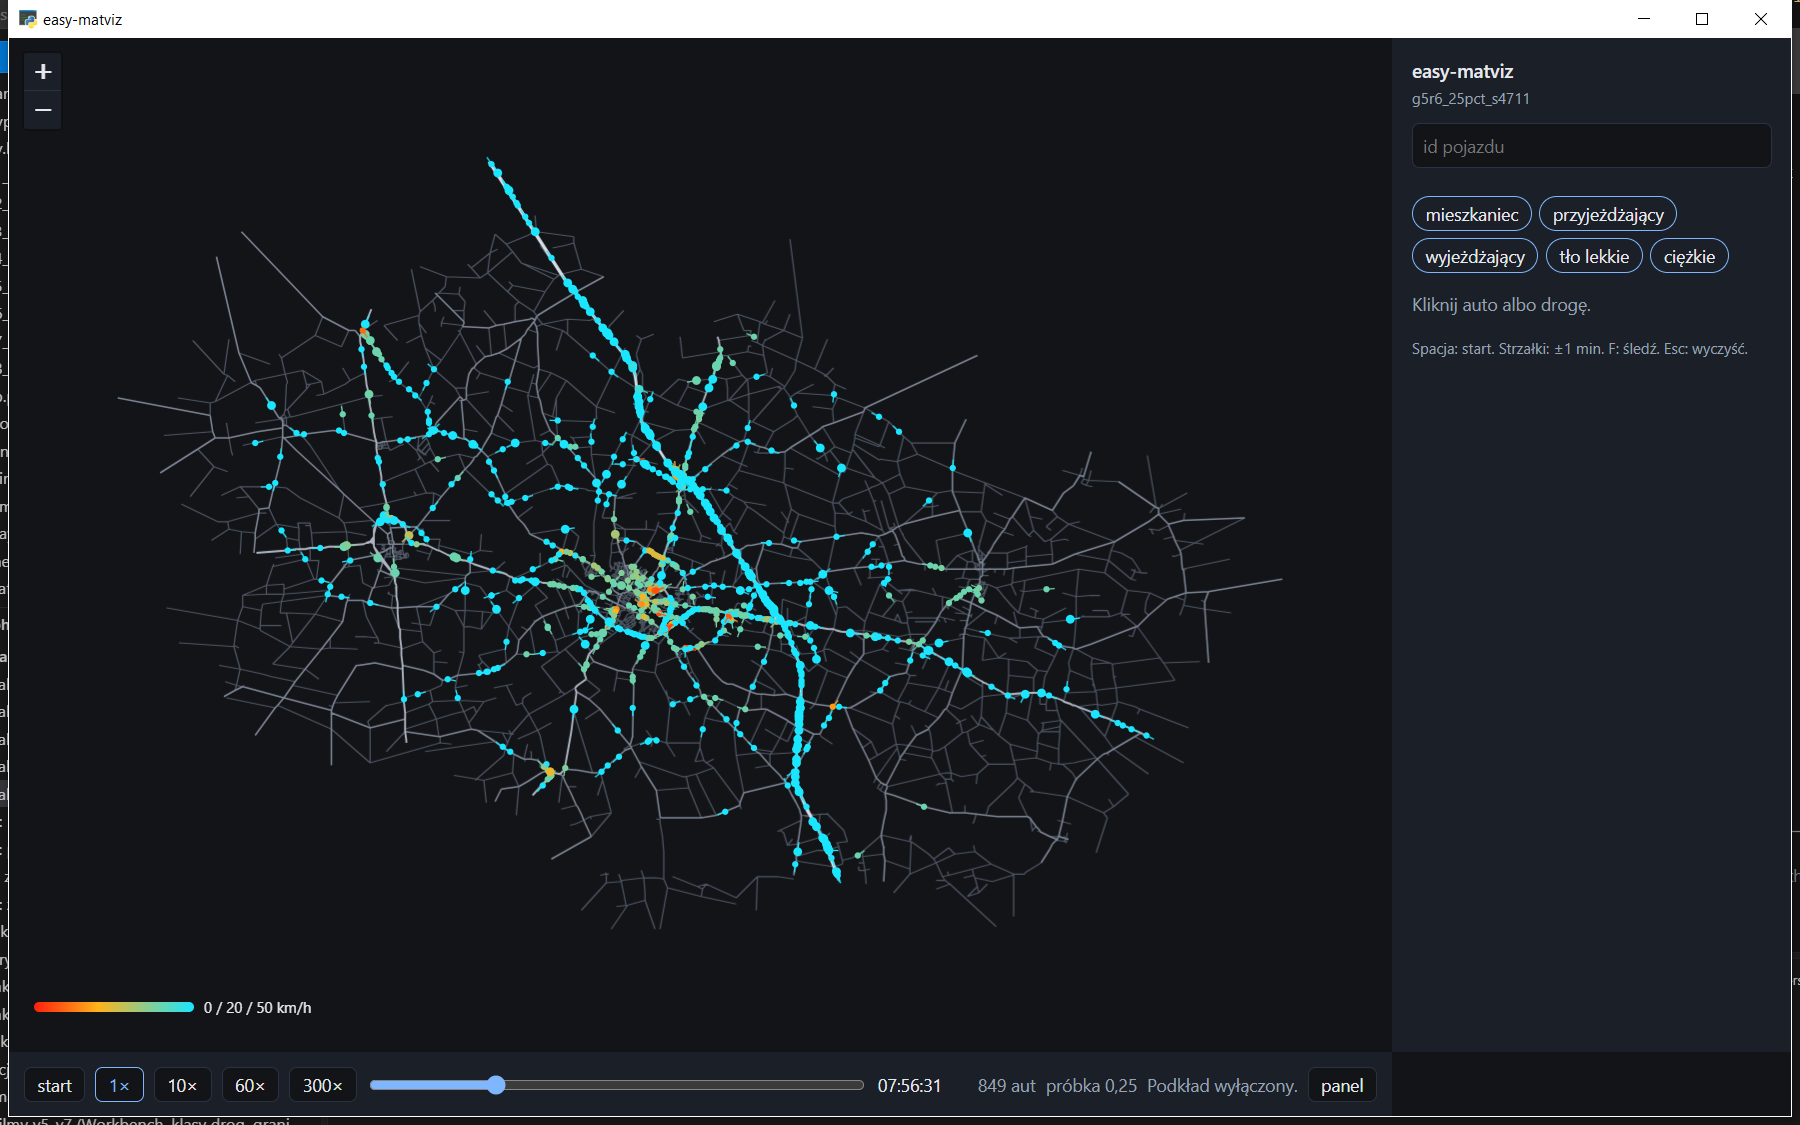
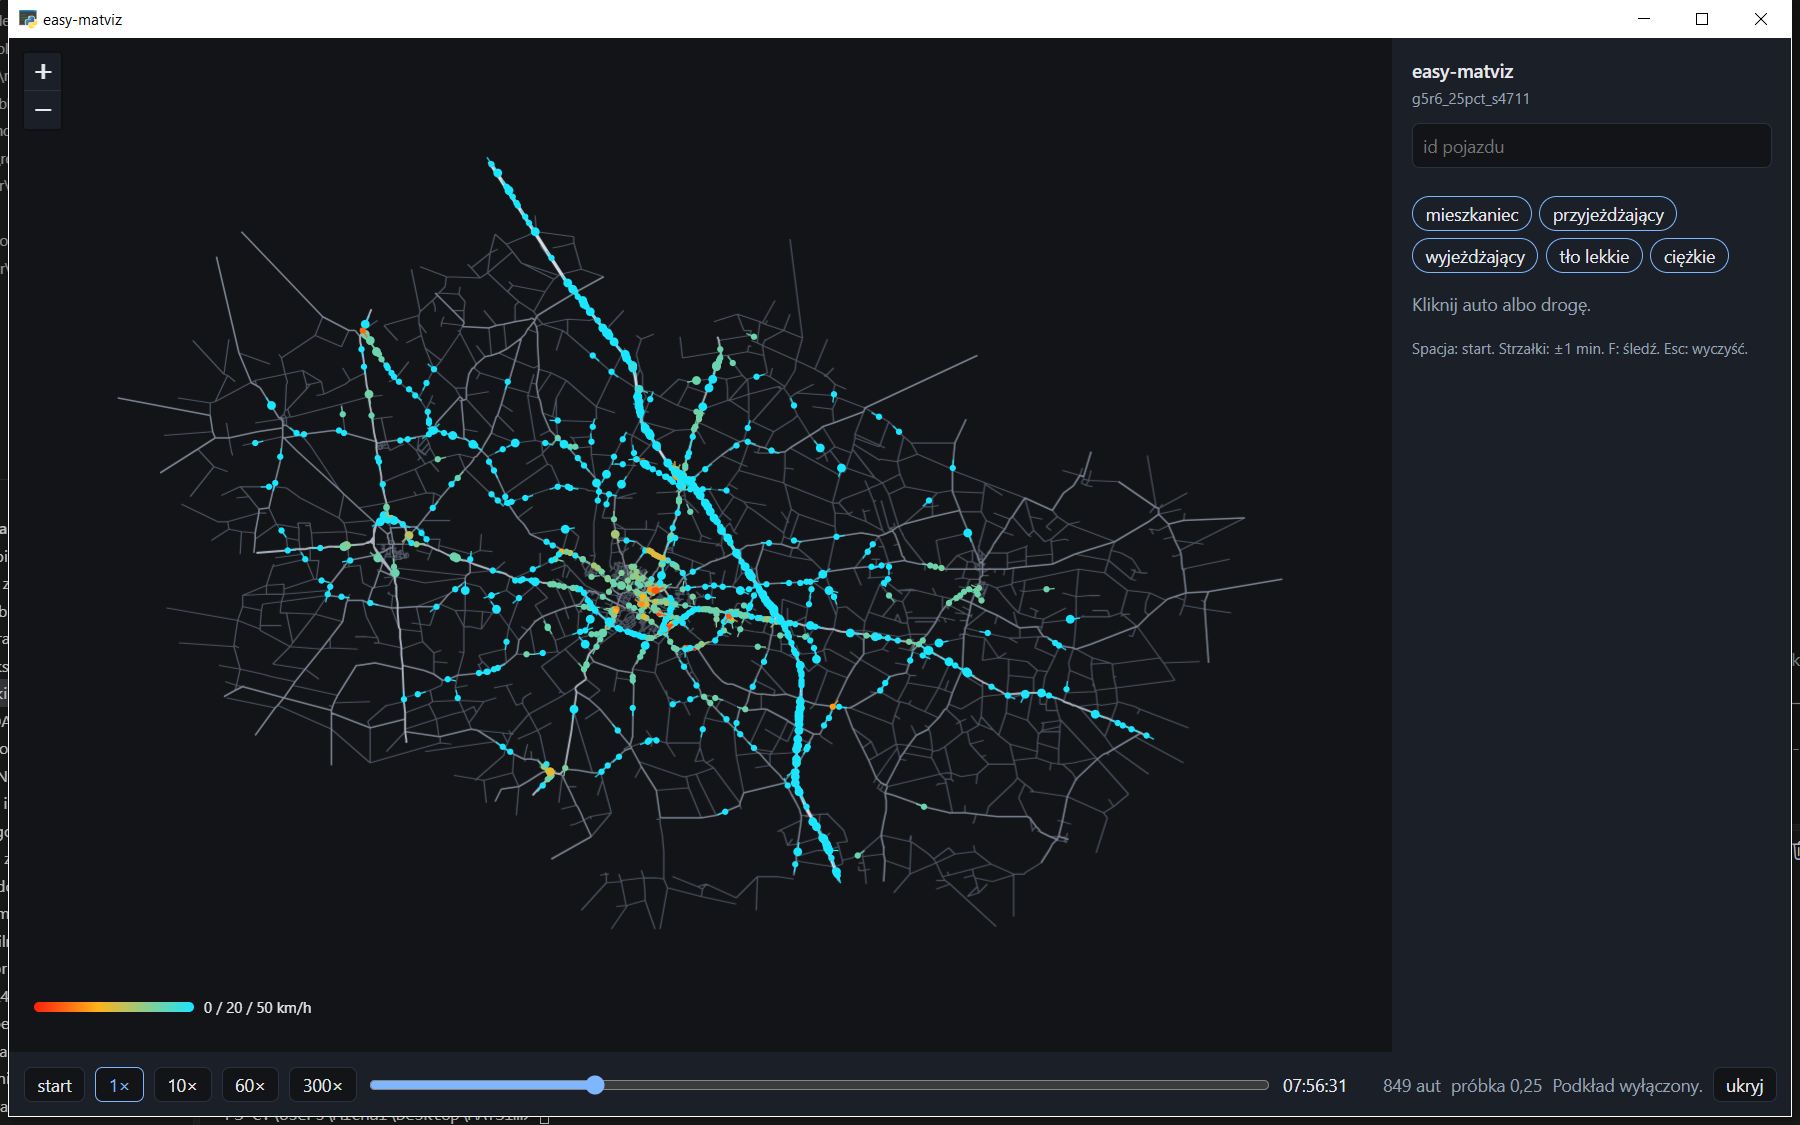
wizualizer: panel wraca, a okno po krzyżyku rysuje klatkę
Ukrycie panelu zrzucało pasek do kolumny o szerokości zero. Pasek jest przypięty do obu kolumn. Drugie uruchomienie wołało api.frame, zanim mostek miał tę funkcję, i zostawiało busy. Smoke czeka na zegar 06:00:00 i sprawdza prostokąt przycisku.

diff --git a/viz_player/shell.html b/viz_player/shell.html
@@ -8,7 +8,7 @@
 html, body { margin: 0; height: 100%; background: #121418; color: #e7e9ee;
   font-family: "Segoe UI", sans-serif; font-size: 14px; }
 body { display: grid; grid-template-columns: 1fr 320px; grid-template-rows: 1fr 52px; overflow: hidden; }
-#stage { position: relative; min-width: 0; min-height: 0; }
+#stage { position: relative; min-width: 0; min-height: 0; grid-column: 1; grid-row: 1; }
 #map { position: absolute; inset: 0; background: #121418; }
 #draw { position: absolute; inset: 0; z-index: 450; pointer-events: none; }
 #legend { position: absolute; z-index: 500; left: 12px; bottom: 22px; display: flex; gap: 8px;
@@ -16,7 +16,8 @@ body { display: grid; grid-template-columns: 1fr 320px; grid-template-rows: 1fr 
   color: #e7e9ee; font-size: 12px; }
 #legend .bar { width: 128px; height: 8px; border-radius: 4px;
   background: linear-gradient(90deg, rgb(255, 31, 13) 0%, rgb(255, 179, 26) 40%, rgb(26, 230, 255) 100%); }
-#panel { background: #1b1f27; overflow: auto; padding: 16px 16px 12px; min-height: 0; }
+#panel { background: #1b1f27; overflow: auto; padding: 16px 16px 12px; min-height: 0;
+  grid-column: 2; grid-row: 1; }
 #panel h1 { margin: 0 0 4px; font-size: 15px; font-weight: 600; }
 #panel .run { margin: 0 0 12px; color: #9aa3b2; font-size: 12px; word-break: break-all; }
 #find input { width: 100%; box-sizing: border-box; background: #121418; color: #e7e9ee;
@@ -34,7 +35,8 @@ body { display: grid; grid-template-columns: 1fr 320px; grid-template-rows: 1fr 
 #acts .on { color: #7eb6ff; }
 .muted { color: #9aa3b2; }
 #hint { margin-top: 18px; color: #9aa3b2; font-size: 12px; line-height: 1.4; }
-#bar { display: flex; align-items: center; gap: 8px; padding: 0 12px; background: #1b1f27; min-width: 0; }
+#bar { display: flex; align-items: center; gap: 8px; padding: 0 12px; background: #1b1f27; min-width: 0;
+  grid-column: 1 / -1; grid-row: 2; }
 #bar button { background: #121418; color: #e7e9ee; border: 1px solid #2a3140; border-radius: 6px; padding: 4px 10px; }
 #bar button.on, #play.on { border-color: #7eb6ff; color: #7eb6ff; }
 #slider { flex: 1; min-width: 80px; accent-color: #7eb6ff; }
@@ -77,7 +79,7 @@ body.panel-off #panel { display: none; }
   <span id="count">0 aut</span>
   <span id="sample"></span>
   <span id="base">Podkład wyłączony.</span>
-  <button id="hide" type="button">panel</button>
+  <button id="hide" type="button">ukryj</button>
 </div>
 <script id="boot" type="application/json">__BOOT__</script>
 <script>/*__LEAFLET_JS__*/</script>
@@ -325,10 +327,19 @@ function py() {
   });
 }
 function pull() {
-  if (window.hold || busy || !window.pywebview) return;
+  const api = window.pywebview && window.pywebview.api;
+  if (window.hold || busy || !api || !api.frame) return;
   busy = true;
   const sent = t;
-  window.pywebview.api.frame(sent).then((payload) => {
+  let pending;
+  try {
+    pending = api.frame(sent);
+  } catch (err) {
+    busy = false;
+    window.drawError = String(err);
+    return;
+  }
+  pending.then((payload) => {
     busy = false;
     if (window.hold) return;
     if (!playing && Math.abs(sent - t) > 1e-3) {
@@ -377,7 +388,10 @@ slider.addEventListener("input", () => {
   dirty = true;
 });
 document.getElementById("hide").addEventListener("click", () => {
-  document.body.classList.toggle("panel-off");
+  const off = document.body.classList.toggle("panel-off");
+  const b = document.getElementById("hide");
+  b.textContent = off ? "panel" : "ukryj";
+  b.classList.toggle("on", off);
   if (map) setTimeout(() => { map.invalidateSize(); linkKey = ""; if (lastPayload) draw(lastPayload); }, 0);
 });
 document.getElementById("find").addEventListener("submit", (ev) => {

diff --git a/viz_player/player.py b/viz_player/player.py
@@ -541,7 +541,7 @@ def self_test():
     if ramp_rgb(0) != (255, 31, 13) or ramp_rgb(VMAX) != (26, 230, 255):
         raise SystemExit(f"self-test: rampa {ramp_rgb(0)} {ramp_rgb(VMAX)}")
     shell = (HERE / "shell.html").read_text(encoding="utf-8")
-    for token in ("255, 31, 13", "255, 179, 26", "26, 230, 255", "const VMAX = 14"):
+    for token in ("255, 31, 13", "255, 179, 26", "26, 230, 255", "const VMAX = 14", "grid-column: 1 / -1"):
         if token not in shell:
             raise SystemExit(f"self-test: shell bez {token}")
     home = {"t": 100.0, "kind": "actend", "type": "home"}
@@ -830,6 +830,10 @@ def smoke(run):
             if not ready:
                 result["error"] = "mapa nie wstała"
                 return
+            opened = _wait_js(window, "document.getElementById('clock').textContent === '06:00:00'")
+            if not opened:
+                result["error"] = "brak klatki " + str(window.evaluate_js("window.drawError"))
+                return
             window.evaluate_js("window.hold = true")
             time.sleep(0.4)
             meta = player.index.meta
@@ -857,6 +861,16 @@ def smoke(run):
                 return
             if player.basemap is None and str(base) != "Podkład wyłączony.":
                 result["error"] = f"podkład {base}"
+                return
+            window.evaluate_js("document.getElementById('hide').click()")
+            time.sleep(0.3)
+            back = window.evaluate_js(
+                "(function(){var b=document.getElementById('hide');var r=b.getBoundingClientRect();"
+                "return r.width>20 && r.left>=0 && r.right<=window.innerWidth+1 && b.textContent==='panel';})()"
+            )
+            window.evaluate_js("document.getElementById('hide').click()")
+            if back is not True:
+                result["error"] = "przycisk panelu " + str(back)
                 return
             window.evaluate_js("document.querySelector('.chip[data-letter=\"t\"]').click()")
             time.sleep(0.8)

diff --git a/docs/projekt/ERRORS.md b/docs/projekt/ERRORS.md
@@ -48,3 +48,6 @@ Każdy wpis: co się stało → koszt → reguła na przyszłość. Najważniejs
 25. **`np.load` na Windows trzyma plik.** Po zielonym teście kasowanie `index.npz` i sprzątanie `TemporaryDirectory` rzuciły `PermissionError` (WinError 32). → Zamykać `NpzFile` w `finally`, zanim cokolwiek usuwa plik.
 26. **Węzły dopisywane w kolejności pliku nie tworzą ciągłego bloku jednego przejazdu.** Eventy pojazdów się przeplatają, a indeks chce jeden wycinek CSR na przejazd. → Bufor otwartego przejazdu i zrzut przy `vehicle leaves traffic`, nowym wjeździe tego samego pojazdu albo końcu pliku. Wyłapane przed runem R6. Self-test sortuje eventy po czasie, żeby przeplot był w teście.
 27. **Brak `x`/`y` przy czynności stawiał ją na węźle from linku.** Gałąź nie odpaliła się na R6 (każda czynność ma współrzędne), więc indeks był dobry, a błąd cichy. → Budowa przerywa się (`czynność bez x/y`). Nie wymyślać punktu.
+
+## 2026-10-20 (okno D24, krok 3)
+28. **Po krzyżyku kolejne okno było puste, a ukryty panel nie miał powrotu.** Dwie osobne przyczyny. Panel: `display:none` wyjmował go z siatki, a pasek (z przyciskiem) wpadał w kolumnę o szerokości 0. Pusta mapa: pywebview wstrzykuje mostek w dwóch skryptach. Między nimi `window.pywebview.api` już jest, ale bez `frame`. `pull` ustawiał `busy` i wywoływał `api.frame`, które jeszcze nie istniało. Wyjątek zostawiał `busy` na zawsze, więc auta i linki nie przychodziły. Pierwsze otwarcie czasem wygrywało ten wyścig, kolejne nie. → Pasek ma stałe miejsce w siatce (`grid-column: 1 / -1`, `grid-row: 2`). `pull` woła `frame` dopiero, gdy funkcja jest, a wyjątek zdejmuje `busy`. Smoke czeka na zegar `06:00:00` z samego odtwarzania i sprawdza, że przycisk panelu zostaje na ekranie.

diff --git a/docs/projekt/PROGRESS.md b/docs/projekt/PROGRESS.md
@@ -313,4 +313,5 @@
 - Akceptacja automatyczna. Self-testy indeksu i silnika nadal przechodzą. `uv run python -m viz_player --self-test` → `self-test OK` (zegar 06:00:00 i 30:12:00, próbka `0,25`, rampa G6, czynność zamiast ducha, klik auta i linku, prefiks id).
 - R6, bez rysowania: `uv run python -m viz_player --check output/g5r6_25pct_s4711`. Log: `output/g5r6_25pct_s4711/viz/player.log`. Start 06:00:00, próbka `0,25`, podkład wyłączony, 10 383 linki, osie 52,2307° N 19,3633° E. Klatka 07:56:31 (28 591 s): 849 aut, bez `t` 447. Szczyt 58 170 s: 961. Lookup `r6510903_5` trafia. Indeks z dysku (`reuse`, bez skanu XML).
 - Smoke okna na tym samym runie: mapa 1106×811, narysowane 849 i po wyłączeniu chipa `t` 447, podpis próbki `0,25`, zdanie „Podkład wyłączony.”, panel pokazuje `r6510903_5`, Escape czyści wybór. Zrzut (pauza 07:56, nie stan otwarcia): `docs/research/wizualizer_okno.png`.
-- Akceptacji ludzkiej nie zaliczam. Zostaje obejrzenie: pauza 07:56, play, suwak 06:30 i z powrotem, szukanie, śledzenie, Escape, klik linku, czytelność panelu. Klucza CARTO nadal nie ma. `ERRORS.md` bez nowej lekcji. MVP i D23 bez zmian. Krok 4 nie ruszany.
+- Akceptacji ludzkiej nie zaliczam. Zostaje obejrzenie: pauza 07:56, play, suwak 06:30 i z powrotem, szukanie, śledzenie, Escape, klik linku, czytelność panelu. Klucza CARTO nadal nie ma. MVP i D23 bez zmian. Krok 4 nie ruszany.
+- Po obejrzeniu, tego samego dnia: ukrycie panelu zabierało pasek razem z przyciskiem (siatka), a kolejne okno po krzyżyku wstawało bez aut i linków (`pull` łapał `busy`, zanim mostek dostał `frame`). Lekcja 28 w `ERRORS.md`. Przycisk zostaje na pasku i nazywa się „panel”, gdy panel jest schowany. Smoke czeka na zegar 06:00:00 z odtwarzania i sprawdza prostokąt przycisku.

diff --git a/docs/research/wizualizer_plan.md b/docs/research/wizualizer_plan.md
@@ -234,7 +234,7 @@ Testy na indeksie z kroku 1, bez rysowania:
 
 ### Krok 3. Okno
 
-Stan 2026-10-20: kod zrobiony (`viz_player/`). Akceptacja automatyczna przeszła: self-testy kroków 1–2, self-test okna, check R6 i smoke okna. Akceptacji ludzkiej agent nie zalicza. Dowód: `docs/projekt/PROGRESS.md`, `output/g5r6_25pct_s4711/viz/player.log`, zrzut niżej (to smoke o 07:56, nie otwarcie programu; program wstaje o 06:00).
+Stan 2026-10-20: kod zrobiony (`viz_player/`). Akceptacja automatyczna przeszła: self-testy kroków 1–2, self-test okna, check R6 i smoke okna. Po pierwszej inspekcji: przycisk panelu zostaje na pasku, a kolejne uruchomienie po krzyżyku znowu rysuje klatkę (lekcja 28). Akceptacji ludzkiej agent nie zalicza. Dowód: `docs/projekt/PROGRESS.md`, `output/g5r6_25pct_s4711/viz/player.log`, zrzut niżej (to smoke o 07:56, nie otwarcie programu; program wstaje o 06:00).
 
 Akceptacja automatyczna: kroki 1–2 nadal przechodzą, import okna nie czyta XML.
 
